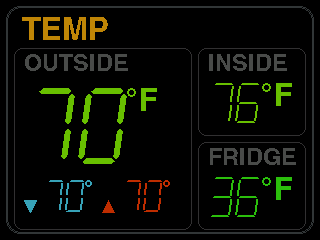
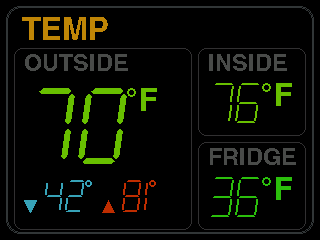
Temperatures card: the day's low and high shown
Claude-Session: https://claude.ai/code/session_017eW25LxrJbub8CcnNzSiUn

Changed region(s): [[0.375, 0.7292, 0.5312, 0.9042], [0.125, 0.7583, 0.2812, 0.875], [0.1562, 0.7292, 0.1875, 0.7583]]

diff --git a/index.html b/index.html
@@ -5,7 +5,7 @@
 <meta name="viewport" content="width=device-width, initial-scale=1, maximum-scale=1, user-scalable=no">
 <title>OVERCLOCK Field Computer: the clock your Toyota should have come with</title>
 <meta name="description" content="OVERCLOCK Field Computer plugs into the factory clock spot of a nineties Toyota truck. Engine codes in plain English, GPS, every drive logged every second, weather, tilt, solar and alerts. No wiring. Try the real firmware in your browser.">
-<link rel="stylesheet" href="site.css?v=20261029m">
+<link rel="stylesheet" href="site.css?v=20261029n">
 </head>
 <body>
 <a class="skip" href="#main">Skip to content</a>
@@ -89,7 +89,7 @@
         <div class="moment"><h3>Gauges</h3><p>Four live gauges on one page, and you pick which four right there.</p><img src="pages/gauges.png" width="320" height="240" alt="The GAUGES page: speed, rpm, coolant and volts" loading="lazy" decoding="async"></div>
         <div class="moment"><h3>One gauge, big</h3><p>Click a gauge and it fills the screen. Green when healthy, amber warm, red wrong.</p><img src="pages/speed.png" width="320" height="240" alt="The SPEED page opened big" loading="lazy" decoding="async"></div>
         <div class="moment"><h3>Health</h3><p>Is anything slowly getting worse? Graphs of recent drives with a verdict in plain words.</p><img src="pages/health.png" width="320" height="240" alt="The HEALTH page: a list of small graphs" loading="lazy" decoding="async"></div>
-        <div class="moment"><h3>Temperatures</h3><p>Outside, cabin, fridge, freezer, engine bay, cargo, trailer or water. Four probes, your choice.</p><img src="pages/temp.png" width="320" height="240" alt="The TEMP page: outside, inside, fridge and freezer" loading="lazy" decoding="async"></div>
+        <div class="moment"><h3>Temperatures</h3><p>Outside, cabin, fridge, freezer, engine bay, cargo, trailer or water. Up to four probes, your choice, with the day's low and high under the outside reading.</p><img src="pages/temp.png" width="320" height="240" alt="The TEMP page: outside, inside, fridge and freezer" loading="lazy" decoding="async"></div>
         <div class="moment"><h3>Weather</h3><p>Three days of barometer and a storm warning before the storm.</p><img src="pages/weather.png" width="320" height="240" alt="The WEATHER page with the pressure trend" loading="lazy" decoding="async"></div>
         <div class="moment"><h3>Tilt and camp</h3><p>Pitch and roll, and a camp view that says which wheel to lift and by how much.</p><img src="pages/level.png" width="320" height="240" alt="The TILT page with two bubble levels" loading="lazy" decoding="async"></div>
         <div class="moment"><h3>Solar</h3><p>Watts in, amps, and the house battery's charge, from your solar gear.</p><img src="pages/solar.png" width="320" height="240" alt="The SOLAR page: watts, battery and charge" loading="lazy" decoding="async"></div>
@@ -423,7 +423,7 @@
 document.addEventListener('gesturestart', e => e.preventDefault(), { passive: false });
 document.addEventListener('touchmove', e => { if (e.scale !== undefined && e.scale !== 1) e.preventDefault(); }, { passive: false });
 </script>
-<script src="index.js?v=20261029m"></script>
-<script src="menu.js?v=20261029m"></script>
+<script src="index.js?v=20261029n"></script>
+<script src="menu.js?v=20261029n"></script>
 </body>
 </html>

diff --git a/3d.html b/3d.html
@@ -5,8 +5,8 @@
 <meta name="viewport" content="width=device-width, initial-scale=1, maximum-scale=1, user-scalable=no">
 <title>OVERCLOCK Field Computer in 3D: the 4Runner and Tacoma units and the board</title>
 <meta name="description" content="Turn the OVERCLOCK Field Computer over in 3D: the 4Runner and Tacoma units with the real firmware running on their screens, and the fully custom circuit board with every part labelled.">
-<link rel="stylesheet" href="site.css?v=20261029m">
-<link rel="stylesheet" href="3d.css?v=20261029m">
+<link rel="stylesheet" href="site.css?v=20261029n">
+<link rel="stylesheet" href="3d.css?v=20261029n">
 </head>
 <body class="demo three">
 <a class="skip" href="#main">Skip to content</a>
@@ -55,10 +55,10 @@
 document.addEventListener('gesturestart', e => e.preventDefault(), { passive: false });
 document.addEventListener('touchmove', e => { if (e.scale !== undefined && e.scale !== 1) e.preventDefault(); }, { passive: false });
 </script>
-<script src="overclock.js?v=20261029m"></script>
-<script src="demo_truck.js?v=20261029m"></script>
+<script src="overclock.js?v=20261029n"></script>
+<script src="demo_truck.js?v=20261029n"></script>
 <script type="module">
-import {THREE, OrbitControls, GLTFLoader, MeshoptDecoder, RoomEnvironment} from './lib/three-viewer.js?v=20261029m';   // Three.js 0.169 and its loaders, bundled
+import {THREE, OrbitControls, GLTFLoader, MeshoptDecoder, RoomEnvironment} from './lib/three-viewer.js?v=20261029n';   // Three.js 0.169 and its loaders, bundled
 
 const BASE = '3d/';                 // the models, labels and still screens
 const FW = { base: 'dist/', v: '2026-10-28g' };   // the site's own firmware files
@@ -224,6 +224,6 @@ const start=['4runner','tacoma','board'].includes(location.hash.slice(1))?locati
 addEventListener('hashchange',()=>{const h=location.hash.slice(1); if(['4runner','tacoma','board'].includes(h)&&h!==mode) show(h);});
 show(start);
 </script>
-<script src="menu.js?v=20261029m"></script>
+<script src="menu.js?v=20261029n"></script>
 </body>
 </html>

diff --git a/demo.html b/demo.html
@@ -5,8 +5,8 @@
 <meta name="viewport" content="width=device-width, initial-scale=1, maximum-scale=1, user-scalable=no">
 <title>OVERCLOCK Field Computer demo: the real firmware, every control beside it</title>
 <meta name="description" content="Drive the OVERCLOCK Field Computer's actual firmware in your browser: the knob, the pages, thirteen faults to inject, and a truck to tip while the TILT page follows.">
-<link rel="stylesheet" href="site.css?v=20261029m">
-<link rel="stylesheet" href="demo.css?v=20261029m">
+<link rel="stylesheet" href="site.css?v=20261029n">
+<link rel="stylesheet" href="demo.css?v=20261029n">
 </head>
 <body class="demo">
 <a class="skip" href="#main">Skip to content</a>
@@ -124,9 +124,9 @@
 document.addEventListener('gesturestart', e => e.preventDefault(), { passive: false });
 document.addEventListener('touchmove', e => { if (e.scale !== undefined && e.scale !== 1) e.preventDefault(); }, { passive: false });
 </script>
-<script src="overclock.js?v=20261029m"></script>
-<script src="demo_truck.js?v=20261029m"></script>
-<script src="demo.js?v=20261029m"></script>
-<script src="menu.js?v=20261029m"></script>
+<script src="overclock.js?v=20261029n"></script>
+<script src="demo_truck.js?v=20261029n"></script>
+<script src="demo.js?v=20261029n"></script>
+<script src="menu.js?v=20261029n"></script>
 </body>
 </html>

diff --git a/senders.html b/senders.html
@@ -5,7 +5,7 @@
 <meta name="viewport" content="width=device-width, initial-scale=1, maximum-scale=1, user-scalable=no">
 <title>Sender support: OVERCLOCK Field Computer</title>
 <meta name="description" content="The temperature probes, transmission temperature senders and oil or fuel pressure senders the OVERCLOCK Field Computer supports today.">
-<link rel="stylesheet" href="site.css?v=20261029m">
+<link rel="stylesheet" href="site.css?v=20261029n">
 </head>
 <body class="doc">
 <a class="skip" href="#main">Skip to content</a>
@@ -48,6 +48,6 @@
   <p><a href="index.html">Home</a> &middot; <a href="demo.html">Demo</a> &middot; <a href="3d.html">3D</a> &middot; <a href="privacy.html">Privacy</a> &middot; <a href="terms.html">Terms</a> &middot; <a href="licenses.html">Licenses</a> &middot; <a href="regulatory.html">Regulatory</a> &middot; <a href="faq.html">Questions</a> &middot; <a href="power.html">Power</a></p>
   <p>Contains FCC ID: 2AC7Z-ESP32WROOM32E</p>
 </footer>
-<script src="menu.js?v=20261029m"></script>
+<script src="menu.js?v=20261029n"></script>
 </body>
 </html>

diff --git a/faq.html b/faq.html
@@ -5,7 +5,7 @@
 <meta name="viewport" content="width=device-width, initial-scale=1, maximum-scale=1, user-scalable=no">
 <title>Questions: OVERCLOCK Field Computer</title>
 <meta name="description" content="Answers to the most common questions about the OVERCLOCK Field Computer: fitment, the Bluetooth adapter, probes, battery draw and more.">
-<link rel="stylesheet" href="site.css?v=20261029m">
+<link rel="stylesheet" href="site.css?v=20261029n">
 </head>
 <body class="doc">
 <a class="skip" href="#main">Skip to content</a>
@@ -92,6 +92,6 @@
   <p><a href="index.html">Home</a> &middot; <a href="demo.html">Demo</a> &middot; <a href="3d.html">3D</a> &middot; <a href="privacy.html">Privacy</a> &middot; <a href="terms.html">Terms</a> &middot; <a href="licenses.html">Licenses</a> &middot; <a href="regulatory.html">Regulatory</a> &middot; <a href="faq.html">Questions</a> &middot; <a href="power.html">Power</a></p>
   <p>Contains FCC ID: 2AC7Z-ESP32WROOM32E</p>
 </footer>
-<script src="menu.js?v=20261029m"></script>
+<script src="menu.js?v=20261029n"></script>
 </body>
 </html>

diff --git a/power.html b/power.html
@@ -5,7 +5,7 @@
 <meta name="viewport" content="width=device-width, initial-scale=1, maximum-scale=1, user-scalable=no">
 <title>Power and your battery: OVERCLOCK Field Computer</title>
 <meta name="description" content="How much power the OVERCLOCK Field Computer draws driving, at key-off and parked, and how it protects your battery.">
-<link rel="stylesheet" href="site.css?v=20261029m">
+<link rel="stylesheet" href="site.css?v=20261029n">
 </head>
 <body class="doc">
 <a class="skip" href="#main">Skip to content</a>
@@ -50,6 +50,6 @@
   <p><a href="index.html">Home</a> &middot; <a href="demo.html">Demo</a> &middot; <a href="3d.html">3D</a> &middot; <a href="privacy.html">Privacy</a> &middot; <a href="terms.html">Terms</a> &middot; <a href="licenses.html">Licenses</a> &middot; <a href="regulatory.html">Regulatory</a> &middot; <a href="faq.html">Questions</a> &middot; <a href="power.html">Power</a></p>
   <p>Contains FCC ID: 2AC7Z-ESP32WROOM32E</p>
 </footer>
-<script src="menu.js?v=20261029m"></script>
+<script src="menu.js?v=20261029n"></script>
 </body>
 </html>

diff --git a/regulatory.html b/regulatory.html
@@ -5,7 +5,7 @@
 <meta name="viewport" content="width=device-width, initial-scale=1, maximum-scale=1, user-scalable=no">
 <title>Regulatory Information: OVERCLOCK Field Computer</title>
 <meta name="description" content="Regulatory information for the OVERCLOCK Field Computer, including the FCC ID of the radio module inside it.">
-<link rel="stylesheet" href="site.css?v=20261029m">
+<link rel="stylesheet" href="site.css?v=20261029n">
 </head>
 <body class="doc">
 <a class="skip" href="#main">Skip to content</a>
@@ -27,6 +27,6 @@
   <p><a href="index.html">Home</a> &middot; <a href="demo.html">Demo</a> &middot; <a href="3d.html">3D</a> &middot; <a href="privacy.html">Privacy</a> &middot; <a href="terms.html">Terms</a> &middot; <a href="licenses.html">Licenses</a> &middot; <a href="regulatory.html">Regulatory</a> &middot; <a href="faq.html">Questions</a> &middot; <a href="power.html">Power</a></p>
   <p>Contains FCC ID: 2AC7Z-ESP32WROOM32E</p>
 </footer>
-<script src="menu.js?v=20261029m"></script>
+<script src="menu.js?v=20261029n"></script>
 </body>
 </html>

diff --git a/terms.html b/terms.html
@@ -5,7 +5,7 @@
 <meta name="viewport" content="width=device-width, initial-scale=1, maximum-scale=1, user-scalable=no">
 <title>Terms of use: OVERCLOCK Field Computer</title>
 <meta name="description" content="Plain terms for using overclockdash.com and the OVERCLOCK Field Computer, with trademark and copyright notes.">
-<link rel="stylesheet" href="site.css?v=20261029m">
+<link rel="stylesheet" href="site.css?v=20261029n">
 </head>
 <body class="doc">
 <a class="skip" href="#main">Skip to content</a>
@@ -40,6 +40,6 @@
   <p><a href="index.html">Home</a> &middot; <a href="demo.html">Demo</a> &middot; <a href="3d.html">3D</a> &middot; <a href="privacy.html">Privacy</a> &middot; <a href="terms.html">Terms</a> &middot; <a href="licenses.html">Licenses</a> &middot; <a href="regulatory.html">Regulatory</a> &middot; <a href="faq.html">Questions</a> &middot; <a href="power.html">Power</a></p>
   <p>Contains FCC ID: 2AC7Z-ESP32WROOM32E</p>
 </footer>
-<script src="menu.js?v=20261029m"></script>
+<script src="menu.js?v=20261029n"></script>
 </body>
 </html>

diff --git a/licenses.html b/licenses.html
@@ -5,7 +5,7 @@
 <meta name="viewport" content="width=device-width, initial-scale=1, maximum-scale=1, user-scalable=no">
 <title>Licenses and credits: OVERCLOCK Field Computer</title>
 <meta name="description" content="Open-source software used on overclockdash.com and inside the browser demo.">
-<link rel="stylesheet" href="site.css?v=20261029m">
+<link rel="stylesheet" href="site.css?v=20261029n">
 </head>
 <body class="doc">
 <a class="skip" href="#main">Skip to content</a>
@@ -53,6 +53,6 @@
   <p><a href="index.html">Home</a> &middot; <a href="demo.html">Demo</a> &middot; <a href="3d.html">3D</a> &middot; <a href="privacy.html">Privacy</a> &middot; <a href="terms.html">Terms</a> &middot; <a href="licenses.html">Licenses</a> &middot; <a href="regulatory.html">Regulatory</a> &middot; <a href="faq.html">Questions</a> &middot; <a href="power.html">Power</a></p>
   <p>Contains FCC ID: 2AC7Z-ESP32WROOM32E</p>
 </footer>
-<script src="menu.js?v=20261029m"></script>
+<script src="menu.js?v=20261029n"></script>
 </body>
 </html>

diff --git a/privacy.html b/privacy.html
@@ -5,7 +5,7 @@
 <meta name="viewport" content="width=device-width, initial-scale=1, maximum-scale=1, user-scalable=no">
 <title>Privacy: OVERCLOCK Field Computer</title>
 <meta name="description" content="What overclockdash.com collects (almost nothing) and what happens to a note you send us.">
-<link rel="stylesheet" href="site.css?v=20261029m">
+<link rel="stylesheet" href="site.css?v=20261029n">
 </head>
 <body class="doc">
 <a class="skip" href="#main">Skip to content</a>
@@ -36,6 +36,6 @@
   <p><a href="index.html">Home</a> &middot; <a href="demo.html">Demo</a> &middot; <a href="3d.html">3D</a> &middot; <a href="privacy.html">Privacy</a> &middot; <a href="terms.html">Terms</a> &middot; <a href="licenses.html">Licenses</a> &middot; <a href="regulatory.html">Regulatory</a> &middot; <a href="faq.html">Questions</a> &middot; <a href="power.html">Power</a></p>
   <p>Contains FCC ID: 2AC7Z-ESP32WROOM32E</p>
 </footer>
-<script src="menu.js?v=20261029m"></script>
+<script src="menu.js?v=20261029n"></script>
 </body>
 </html>
